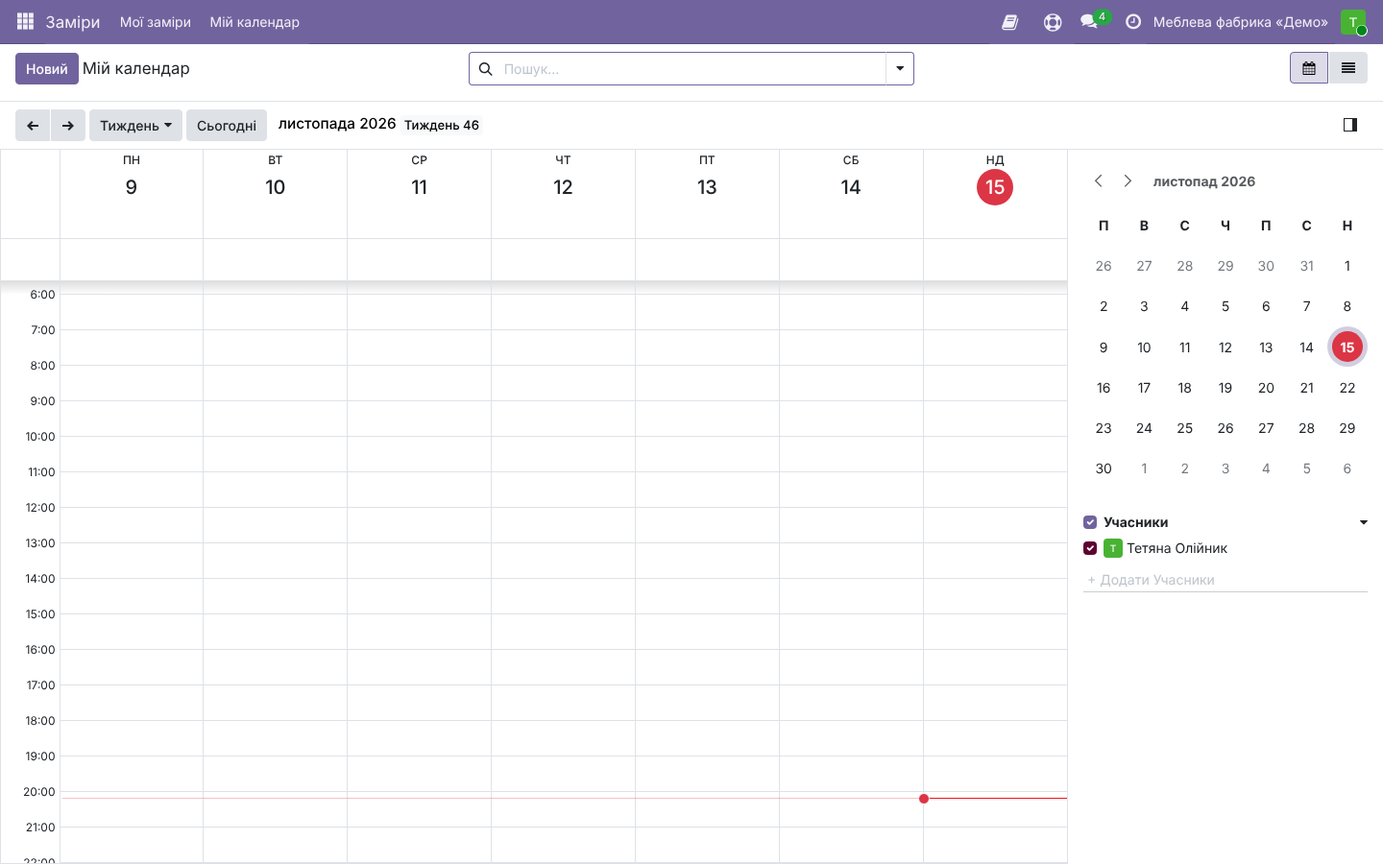
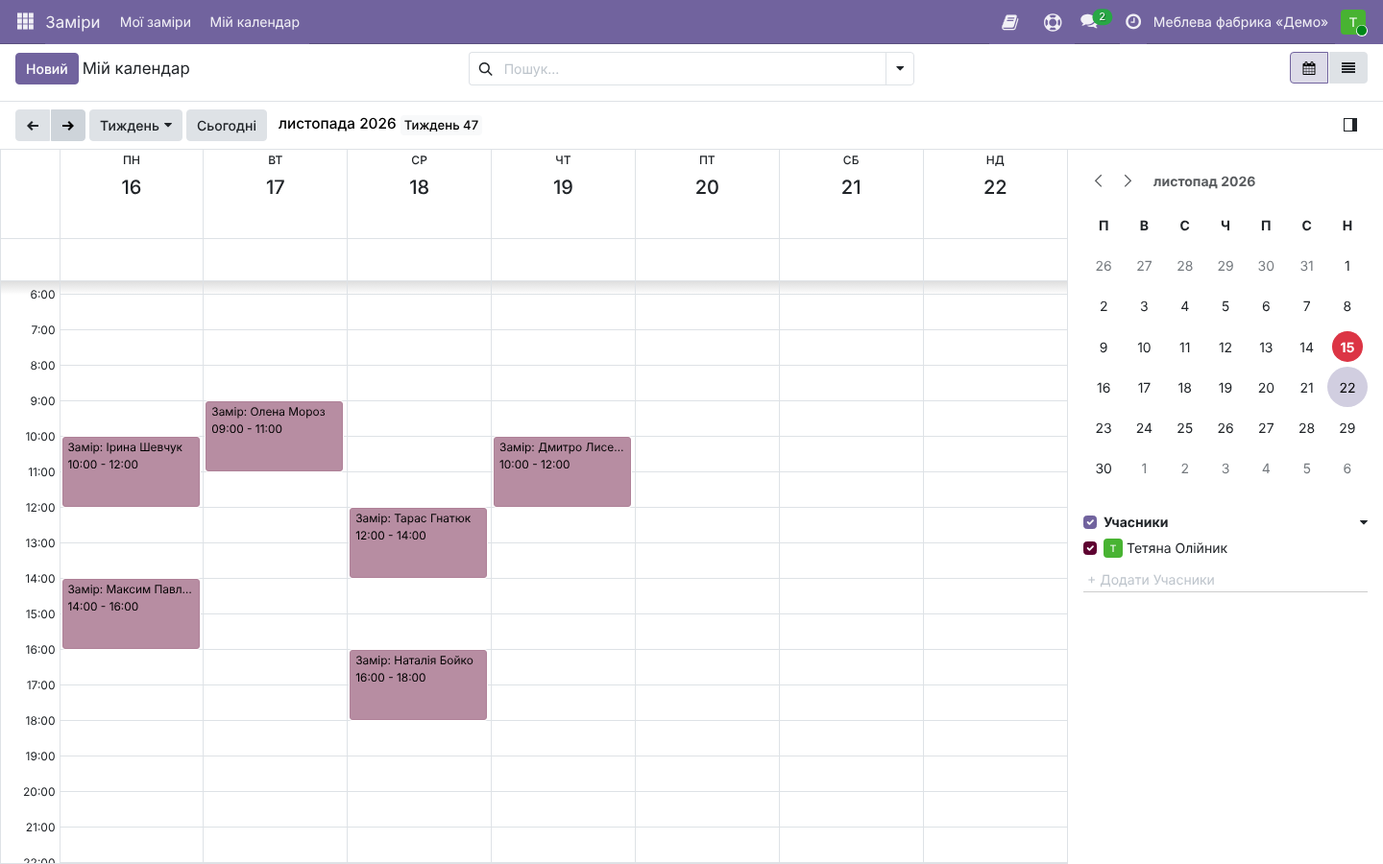
A-16b-2: закриття фінального аудиту — календар монтажів у «Продажі», меню шестерні, пропозиція ремонту сервісом (запис у чаті), скасування нарахувань, кадр SC-07-1 з замірами
Claude-Session: https://claude.ai/code/session_01L4X5dzMK8q8wsLqUxAXMtS

diff --git a/package/docs/user-guide/admin.md b/package/docs/user-guide/admin.md
@@ -84,7 +84,7 @@ EE (Enterprise) — **не перевірено** (EE недоступна в с
 Група «старі екрани» (`group_td_old_screens`) мостів повертає екрани CE для тих, хто ще не перейшов. Підписи мостів перекладено в `i18n/uk.po` модулів («Деталі», «Запланувати бригаду», «Рекламація», «Повторне виготовлення», «Підписати договір (Sign)»); у UI на EE не перевірено (EE недоступна). `td_home_menu` на EE не ставиться (свій головний екран EE).
 
 ## Користувачі й ролі
-Користувачі: «Налаштування» → «Користувачі та компанії» → «Користувачі» ![Користувачі](img/admin/ADM-7.png). Новий користувач: «Новий» → ім'я, логін (e-mail), групи на вкладці прав доступу, «Компанії» й «Компанія за замовчуванням» (видно при кількох юрособах), у налаштуваннях користувача — мова «Українська» і «Часовий пояс» `Europe/Kyiv` (не `Europe/Kiev` — див. «Типові помилки»). Запрошення — кнопка на формі користувача (лист зі встановленням пароля; потрібна вихідна пошта і правильний `web.base.url`); без пошти — «Дія» → «Змінити пароль» і передайте пароль людині особисто. Скидання пароля — кнопка «Скинути пароль» на формі користувача (лист) або посилання «Скинути пароль» на сторінці входу. Для ролі призначте групи на вкладці прав доступу користувача:
+Користувачі: «Налаштування» → «Користувачі та компанії» → «Користувачі» ![Користувачі](img/admin/ADM-7.png). Новий користувач: «Новий» → ім'я, логін (e-mail), групи на вкладці прав доступу, «Компанії» й «Компанія за замовчуванням» (видно при кількох юрособах), у налаштуваннях користувача — мова «Українська» і «Часовий пояс» `Europe/Kyiv` (не `Europe/Kiev` — див. «Типові помилки»). Запрошення — кнопка на формі користувача (лист зі встановленням пароля; потрібна вихідна пошта і правильний `web.base.url`); без пошти — значок шестерні біля назви запису → «Змінити пароль» і передайте пароль людині особисто. Скидання пароля — кнопка «Скинути пароль» на формі користувача (лист) або посилання «Скинути пароль» на сторінці входу. Для ролі призначте групи на вкладці прав доступу користувача:
 | Роль | Групи Odoo (стандарт + пакет) |
 |---|---|
 | Менеджер продажу | Продажі: «Користувач: лише власні документи» (старший — «усі документи»); без прав «Проєкт» менеджер бачить «Продажі» → «Замовлення» → «Календар монтажів» і змінює у виїздах лише дату й бригаду — своїх замовлень («усі документи» — усіх) |
@@ -199,7 +199,7 @@ EE (Enterprise) — **не перевірено** (EE недоступна в с
 Що копіювати: базу PostgreSQL і файлове сховище бази (`<data_dir>/filestore/<база>`, `data_dir` — з конфігу Odoo). Бекапів баз у git немає.
 - Копія бази: `pg_dump -Fc -d <база> -f /backup/<база>-$(date +%F).dump`; файли: `tar czf /backup/<база>-filestore-$(date +%F).tgz -C <data_dir>/filestore <база>`; обидва файли — на інший сервер (шифровано: у копії персональні дані покупців).
 - Перевірка копії: `pg_restore -l <файл>.dump > /dev/null` (архів читається) і щоквартальне пробне відновлення в окрему базу з записом результату (AC-N.05).
-- Знешкодження відновленої копії (обов'язково перед першим запуском пробної копії, інакше копія розішле листи покупцям і пакети BAS від імені робочої бази): `odoo-bin neutralize -c <конфіг> -d <база-відновлена>` (стандарт Odoo 19, `odoo/cli/neutralize.py`). Команда вимикає всі заплановані дії (крім автоочищення) — у т. ч. «Меблі: обмін з BAS», «Меблі: нагадування покупцям», «Меблі: ранковий брифінг власника», «Курси НБУ»; вимикає поштові сервери й стирає їхні паролі, підставляє фіктивний сервер; відключає вебхуки серверних дій; ставить параметр `database.is_neutralized`. Власних правил знешкодження модулі `td_*` не мають (файлів `data/neutralize.sql` немає), тому вручну в копії: архівуйте канал обміну з BAS («Обмін з BAS» → «Канали» → «Дія» → «Архів»; потрібна група «Фінансист»), зніміть «Надсилати на вебхук» і очистіть «Адреса підтримки» (блок «Підтримка ToDo»), видаліть системний параметр `td_mebli_ua.nbu_online`.
+- Знешкодження відновленої копії (обов'язково перед першим запуском пробної копії, інакше копія розішле листи покупцям і пакети BAS від імені робочої бази): `odoo-bin neutralize -c <конфіг> -d <база-відновлена>` (стандарт Odoo 19, `odoo/cli/neutralize.py`). Команда вимикає всі заплановані дії (крім автоочищення) — у т. ч. «Меблі: обмін з BAS», «Меблі: нагадування покупцям», «Меблі: ранковий брифінг власника», «Курси НБУ»; вимикає поштові сервери й стирає їхні паролі, підставляє фіктивний сервер; відключає вебхуки серверних дій; ставить параметр `database.is_neutralized`. Власних правил знешкодження модулі `td_*` не мають (файлів `data/neutralize.sql` немає), тому вручну в копії: архівуйте канал обміну з BAS («Обмін з BAS» → «Канали» → значок шестерні біля назви запису → «Архів»; потрібна група «Фінансист»), зніміть «Надсилати на вебхук» і очистіть «Адреса підтримки» (блок «Підтримка ToDo»), видаліть системний параметр `td_mebli_ua.nbu_online`.
 - Відновлення: `createdb <база-відновлена>` → `pg_restore -d <база-відновлена> <файл>.dump` → розпакувати filestore у `<data_dir>/filestore/<база-відновлена>` → запустити Odoo з цією базою, перевірити вхід, останні замовлення й вкладення (фото актів).
 - Розклад: щодня вночі (повна копія), зберігати 14 щоденних і 12 щомісячних, копія — поза сервером Odoo (рішення AI-23 з ризиком; власник/Тімлід — вето, хостинг ще не обрано).
 Демо-стенд має знімок `<instance>-snap` (скидання за секунди — `reset.sh`); це не резервна копія клієнта.

diff --git a/package/docs/user-guide/bryhadyr.md b/package/docs/user-guide/bryhadyr.md
@@ -14,7 +14,7 @@
 | 4 | Відкрийте «Монтаж» → «Акти монтажу» і акт свого виїзду. | Список актів монтажу ![Акти монтажу](img/bryhadyr/SC-08-4.png) |
 | 5 | Заповніть вкладки «Недоліки», «Фото й чек-лист», «Години бригади», «Підпис» (підпис покупця) і натисніть «Підписати акт». Друк — «Друк» → «Акт монтажу». Фото в архів — «У фотоархів» (лише якщо «Згода покупця на публікацію фото» відмічена). | Акт монтажу: стани «Чернетка» → «Підписано»; банер про доплату ![Акт монтажу](img/bryhadyr/SC-08-5.png) |
 | 6 | Рекламація (користувач із групою «Сервіс»): «Ремонти» → «Рекламації» → «Новий»: замовлення, деталь, причина, фото. Гарантію система рахує за строком категорії. Якщо в категорії товару не задано гарантійний строк, на рекламації відмічено «Гарантійний строк не задано» і «Гарантія до» порожня — задайте «Гарантія, міс.» у категорії (адміністратор) (AC-111). На замовленні клієнта смарт-кнопка «Рекламації». | Рекламації за стадіями ![Рекламації](img/bryhadyr/SC-08-6.png) |
-| 7 | На рекламації: «Запланувати виїзд» (задача-виїзд сервісу в «Монтажі»), «Повторне виготовлення» (виробниче замовлення на деталь). Після гарантії («На гарантії» не відмічено, банер «Гарантія закінчилась …: ремонт оплачує клієнт») — платний ремонт (AC-112): деталі й роботи додайте на вкладці «Частини», натисніть стандартну «Створити пропозицію» — з'явиться пропозиція ремонту (смарт-кнопка «Замовлення на продаж»), її підтверджує менеджер, рахунок виставляє фінансист (`finansyst.md`, питання й відповіді). Сервіс створює пропозицію сам, без прав продажу: продавець пропозиції — менеджер замовлення рекламації (вона з'явиться в його пропозиціях), автор — сервіс; користувач без групи «Сервіс» і без прав продажу отримає «Пропозицію ремонту створює лише сервіс або менеджер продажу.» | Рекламація під бригадиром (група «Сервіс»): кнопки «Створити пропозицію», «Запланувати виїзд», «Повторне виготовлення»; на знімку рекламація ще на гарантії — після гарантії над формою банер «Гарантія закінчилась …» ![Рекламація](img/bryhadyr/SC-08-7.png) |
+| 7 | На рекламації: «Запланувати виїзд» (задача-виїзд сервісу в «Монтажі»), «Повторне виготовлення» (виробниче замовлення на деталь). Після гарантії («На гарантії» не відмічено, банер «Гарантія закінчилась …: ремонт оплачує клієнт») — платний ремонт (AC-112): деталі й роботи додайте на вкладці «Частини», натисніть стандартну «Створити пропозицію» — система створює пропозицію ремонту, форма рекламації перезавантажується, а в її чаті з'являється запис «Створено пропозицію платного ремонту: S000NN (менеджер …)». Смарт-кнопку «Замовлення на продаж» бачать лише користувачі продажу, тож сервіс саму пропозицію не відкриває: її підтверджує менеджер, рахунок виставляє фінансист (`finansyst.md`, питання й відповіді). Сервіс створює пропозицію сам, без прав продажу: продавець пропозиції — менеджер замовлення рекламації (вона з'явиться в його пропозиціях), автор — сервіс; користувач без групи «Сервіс» і без прав продажу отримає «Пропозицію ремонту створює лише сервіс або менеджер продажу.» | Рекламація під бригадиром (група «Сервіс»): кнопки «Створити пропозицію», «Запланувати виїзд», «Повторне виготовлення»; на знімку рекламація ще на гарантії — після гарантії над формою банер «Гарантія закінчилась …» ![Рекламація](img/bryhadyr/SC-08-7.png) |
 | 8 | Свої нарахування — «Монтаж» → «Мої нарахування» (лише ваші рядки). | Мої нарахування ![Мої нарахування](img/bryhadyr/SC-08-8.png) |
 
 Типові помилки (усі повідомлення системи дослівно — `reference/messages.md`):

diff --git a/package/docs/user-guide/finansyst.md b/package/docs/user-guide/finansyst.md
@@ -12,7 +12,7 @@
 | 2 | Відкрийте «Обмін з BAS» → «Пакети»: пакет `BAS/РРРР/NNNNN` має стан «Чернетка» → «Передано» → «Прийнято», «Документів», «Помилки». Пакет від BAS — «Імпортувати»; після помилки — «Повторити». На замовленні й рахунку видно поле «Обмін з BAS»; на замовленні — «Передати в BAS». | Пакет обміну ![Пакет обміну](img/finansyst/SC-05-2.png) |
 | 3 | Перевірте «Обмін з BAS» → «Журнал»: кожна передача й помилка з поясненням. | Журнал обміну ![Журнал обміну](img/finansyst/SC-05-3.png) |
 | 4 | Відкрийте «Продажі» → «Звітність» → «Собівартість: план і факт»: планова собівартість пропозиції проти спожитих матеріалів, фактичних годин, порізки й нарахувань. Перевитрату матеріалу показує стандартний діалог при завершенні виробничого замовлення (режим — параметр «Перевитрата матеріалу у виробництві»). Фільтри звіту: «Перевитрата» (замовлення, де спожито матеріалу більше за специфікацію), «Виробництво завершено» (AC-116). | Собівартість: план і факт ![Собівартість план і факт](img/finansyst/SC-05-4.png) |
-| 5 | Нарахування: «Виробництво» → «Звітність» → «Нарахування» (зведена таблиця за видами: «Премія», «% бригаді», «Штраф», «Відрядна»); перемкніть на список і натисніть «Нарахувати» (період) — відрядна з робочих завдань і % бригаді з актів. Перевірте, позначте рядки й натисніть «Підтвердити», надрукуйте «Відомість нарахувань» і натисніть «Передати в BAS». Помилково підтверджені скасовує лише начальник виробництва («Виробництво: Адміністратор») або головний бухгалтер («Бухоблік: Адміністратор»): «Скасувати підтверджені» у списку → вікно «Скасувати нарахування» з причиною; фінансист з правами бухгалтера отримає «Підтверджене нарахування скасовує лише керівник.» (AC-106). | Нарахування цеху й бригадам ![Нарахування](img/finansyst/SC-05-5.png) |
+| 5 | Нарахування: «Виробництво» → «Звітність» → «Нарахування» (зведена таблиця за видами: «Премія», «% бригаді», «Штраф», «Відрядна»); перемкніть на список і натисніть «Нарахувати» (період) — відрядна з робочих завдань і % бригаді з актів. Перевірте, позначте рядки й натисніть «Підтвердити», надрукуйте «Відомість нарахувань» і натисніть «Передати в BAS». Помилково підтверджені нарахування скасовує керівник — начальник виробництва («Виробництво: Адміністратор») або головний бухгалтер («Бухоблік: Адміністратор»): кнопка «Скасувати підтверджені» у списку (фінансист її не бачить) → вікно «Скасувати нарахування» з причиною (AC-106). | Нарахування цеху й бригадам ![Нарахування](img/finansyst/SC-05-5.png) |
 | 6 | Табель: «Відвідування» → «Управління» → «Табель для BAS (імітація)»: «Від дати», «До дати», «Сформувати файл» (або «Передати в BAS»). | Вікно «Табель для BAS (імітація)» ![Табель для BAS](img/finansyst/SC-05-6.png) |
 | 7 | (перший місяць після переходу) «Продажі» → «Налаштування» → «Міграція» → «Звірка»: «Порівняти з Odoo», розбіжності пояснити й «Підписати пояснення» («Повернути в чернетку» — переробити); друк «Звірка міграції». | Звірка міграції ![Звірка міграції](img/finansyst/SC-05-7.png) |
 | 8 | (коробка B) Курс НБУ: курси оновлює розклад «Курси НБУ»; «Продажі» → «Замовлення» → «Оновити ціни за курсом» перераховує прайс і чернетки пропозицій (підтверджені замовлення не змінюються). Собівартість рядків — «Продажі» → «Звітність» → «Собівартість замовлень». | Собівартість замовлень ![Собівартість замовлень](img/finansyst/SC-05-8.png) |

diff --git a/package/docs/user-guide/zamirnyk.md b/package/docs/user-guide/zamirnyk.md
@@ -8,7 +8,7 @@
 
 | № | Дія | Що видно |
 |---|---|---|
-| 1 | Відкрийте застосунок «Заміри» → «Мій календар»: лише ваші зустрічі-заміри (з телефона — та сама сторінка, плитки без прокрутки). | Мій календар замірів ![Мій календар](img/zamirnyk/SC-07-1.png) |
+| 1 | Відкрийте застосунок «Заміри» → «Мій календар» (подання «Тиждень»; стрілка «→» — наступний тиждень, «Сьогодні» — повернутись): лише ваші зустрічі-заміри (з телефона — та сама сторінка, плитки без прокрутки). | Мій календар замірів ![Мій календар](img/zamirnyk/SC-07-1.png) |
 | 2 | Відкрийте «Заміри» → «Мої заміри»: замір-листи з клієнтом, адресою, станом. | Список «Мої заміри» ![Мої заміри](img/zamirnyk/SC-07-2.png) |
 | 3 | Відкрийте замір-лист і заповніть вкладки «Ніші й розміри», «Техніка клієнта», «Комунікації й фото»; «Приміщення», «Перепад підлоги, мм», «Кут стін, °». Телефон клієнта — з картки. | Замір-лист: стани «Заміряно» → «Звірено з проєктом» ![Замір-лист](img/zamirnyk/SC-07-3.png) |
 | 4 | Після проєкту натисніть «Звірити з проєктом». Система звіряє три числа за правилами, без AI (AC-008, AC-009): (1) техніка клієнта проти своєї ніші — ширина, висота, глибина, де глибина ніші зменшується на «Виступ, мм» (труба, короб); (2) виріб, поставлений у нішу («Виріб у ніші» — рядок замовлення), — його ширина, висота, глибина з рядка замовлення проти корисного розміру ніші; (3) найдовша деталь специфікації цього виробу проти більшого з розмірів ніші. Кожна невідповідна пара (техніка > модуль, модуль > ніша) підсвічується з різницею в мм («Не вміщається: глибше на 30 мм»), на замовленні — лічильник «Не вміщається» і перелік «Проєкт проти заміру» для технолога перед розкроєм. Звіряються лише внесені числа: порожній розмір не перевіряється (AC-010). | Стан «Звірено з проєктом»; якщо все вміщається — запис у чаті «Уся техніка вміщається в ніші» (див. знімок кроку 3) |

diff --git a/tests/reports/A-16b-2.md b/tests/reports/A-16b-2.md
@@ -42,3 +42,11 @@ observations: ["observations/2026-11-15-a16b-user-guide-builder.md"]
 ## Аудит (flow-reviewer, коло 1) і перевірки сесії
 Аудит на 483419d: 21 пункт фінального аудиту менеджерської сесії — закрито (адмін-зріз, ролі D-19…D-21, повнота з коду, кадри SC-03-4, SC-01-8, SC-02-8, SC-08-7; вибірка 18 текстів messages.md = uk.po); оцінка повноти (а) ≈99 %, (б) ≈99 %, (в) 100 %. Єдиний major аудитора — SC-01-6 «Клієнт» vs «Постачальник» — сесія звірила: menedzher.md:16 уже пояснює обидва випадки й прямо каже, що на знімку причина «Клієнт» через версію зміни (sale_order_dates.py:212–218) — закрито без змін. ACCEPTANCE SHA — маршрут A-17.
 Перевірки, запущені сесією: check_guides.py (--config package/config/vp-map.yaml) — PASS 11, MANUAL 3, FAIL 0; check_messages.py — missing 0.
+
+## Закриття фінального аудиту
+1. `menedzher.md`, довідник ролі: «Календар монтажів» — «Продажі» → «Замовлення» (`td_mebli_install/views/act_views.xml:146`, `parent="sale.sale_order_menu"`), змінюються лише дата й бригада.
+2. `admin.md`: «Змінити пароль» і «Архів» — через значок шестерні біля назви запису (меню дій форми Odoo 19), а не «Дія».
+3. `bryhadyr.md` крок 7: смарт-кнопку «Замовлення на продаж» бачать лише користувачі продажу (`td_mebli_claim/views/repair_views.xml:13–14`). Сервіс після «Створити пропозицію» бачить перезавантажену форму і запис у чаті «Створено пропозицію платного ремонту: … (менеджер …)» (`td_mebli_claim/models/repair.py:177`, uk.po); пропозицію підтверджує менеджер.
+4. `finansyst.md` крок 5: «Скасувати підтверджені» — лише начальник виробництва або головний бухгалтер, фінансист кнопки не бачить; згадку про повідомлення прибрано.
+5. `zamirnyk.md` крок 1 і кадр SC-07-1 перезнято під measure на тиждень 16–22.11 (6 замірів); сервер — з `delivery-fix3`. `shoot-plan.json` і SHOOT-LOG (69 рядків, без дублів) оновлено; стенд скинуто зі знімка, сервер зупинено.
+`check_guides.py` (`--config package/config/vp-map.yaml`) — FAIL 0; `check_messages.py` — missing 0.

diff --git a/package/docs/user-guide/img/SHOOT-LOG.md b/package/docs/user-guide/img/SHOOT-LOG.md
@@ -50,7 +50,6 @@
 | package/docs/user-guide/img/kerivnyk/SC-06-4.png | 15dbd6f7504fe49f174af6874f6ed99865365ea8 | 2026-11-15 | owner@demo-fabryka.example | http://127.0.0.1:8079 |
 | package/docs/user-guide/img/kerivnyk/SC-06-5.png | 15dbd6f7504fe49f174af6874f6ed99865365ea8 | 2026-11-15 | owner@demo-fabryka.example | http://127.0.0.1:8079 |
 | package/docs/user-guide/img/kerivnyk/SC-06-6.png | 15dbd6f7504fe49f174af6874f6ed99865365ea8 | 2026-11-15 | owner@demo-fabryka.example | http://127.0.0.1:8079 |
-| package/docs/user-guide/img/zamirnyk/SC-07-1.png | 15dbd6f7504fe49f174af6874f6ed99865365ea8 | 2026-11-15 | measure@demo-fabryka.example | http://127.0.0.1:8079 |
 | package/docs/user-guide/img/zamirnyk/SC-07-2.png | 15dbd6f7504fe49f174af6874f6ed99865365ea8 | 2026-11-15 | measure@demo-fabryka.example | http://127.0.0.1:8079 |
 | package/docs/user-guide/img/zamirnyk/SC-07-3.png | 15dbd6f7504fe49f174af6874f6ed99865365ea8 | 2026-11-15 | measure@demo-fabryka.example | http://127.0.0.1:8079 |
 | package/docs/user-guide/img/bryhadyr/SC-08-1.png | 15dbd6f7504fe49f174af6874f6ed99865365ea8 | 2026-11-15 | fitter@demo-fabryka.example | http://127.0.0.1:8079 |
@@ -71,3 +70,4 @@
 | package/docs/user-guide/img/admin/ADM-7.png | 15dbd6f7504fe49f174af6874f6ed99865365ea8 | 2026-11-15 | admin | http://127.0.0.1:8079 |
 | package/docs/user-guide/img/admin/ADM-8.png | 15dbd6f7504fe49f174af6874f6ed99865365ea8 | 2026-11-15 | admin | http://127.0.0.1:8079 |
 | package/docs/user-guide/img/admin/ADM-9.png | 15dbd6f7504fe49f174af6874f6ed99865365ea8 | 2026-11-15 | admin | http://127.0.0.1:8079 |
+| package/docs/user-guide/img/zamirnyk/SC-07-1.png | 15dbd6f7504fe49f174af6874f6ed99865365ea8 | 2026-11-15 | measure@demo-fabryka.example | http://127.0.0.1:8079 |

diff --git a/package/docs/user-guide/menedzher.md b/package/docs/user-guide/menedzher.md
@@ -54,5 +54,5 @@
 | «Повідомити клієнта про нову дату» | замовлення | лист покупцю про нову дату (шаблон «Меблі: нова дата замовлення») |
 | «Договір» | замовлення → «Друк» | PDF договору в режимі компанії (підряд або купівля-продаж) |
 | «Акт приймання-передачі» | доставка → «Друк» | акт для виробу без монтажу (AC-101) |
-| «Календар монтажів» | Проєкт → Монтаж | дати виїздів бригад |
+| «Календар монтажів» | Продажі → Замовлення | дати й бригади виїздів своїх замовлень (змінюються лише дата й бригада) |
 | Листи покупцю: «Меблі: запис на замір», «Меблі: нова дата замовлення», «Меблі: доплата перед монтажем», «Меблі: дата монтажу», «Меблі: монтаж завтра», «Меблі: зміна замовлення на підпис» | надсилаються автоматично або кнопкою | шаблони модулів пакета; тексти змінює адміністратор (admin.md «Пошта») |
